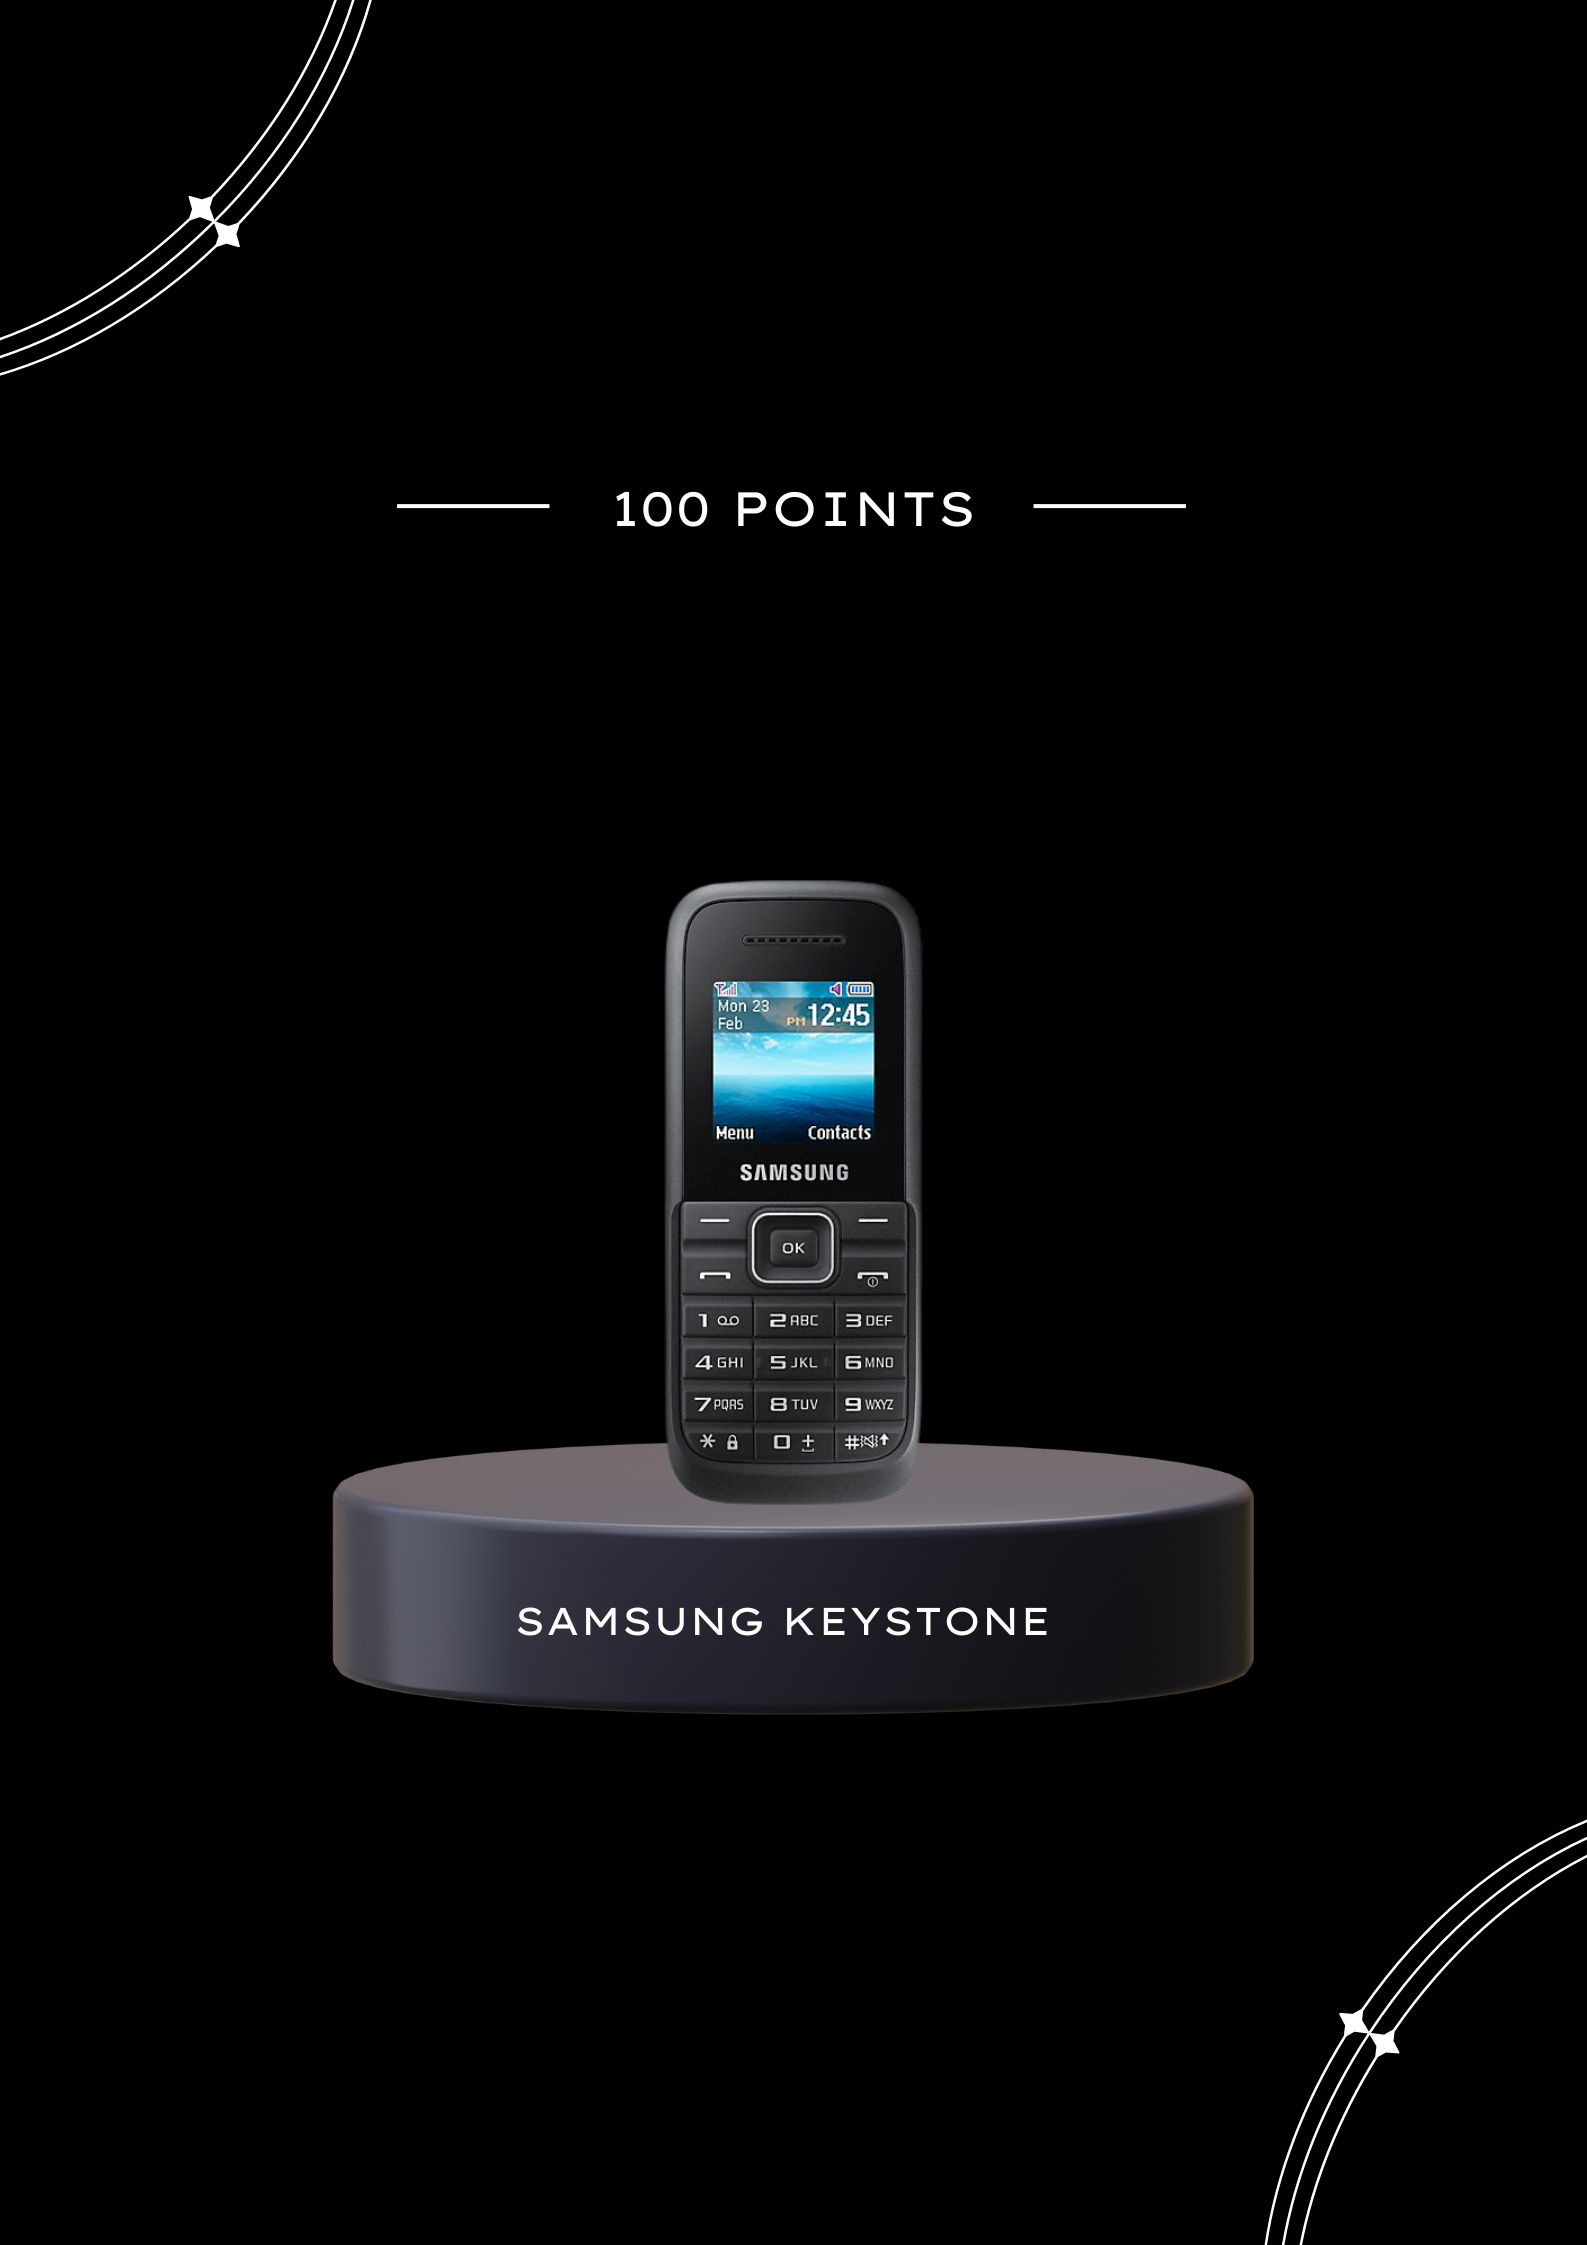
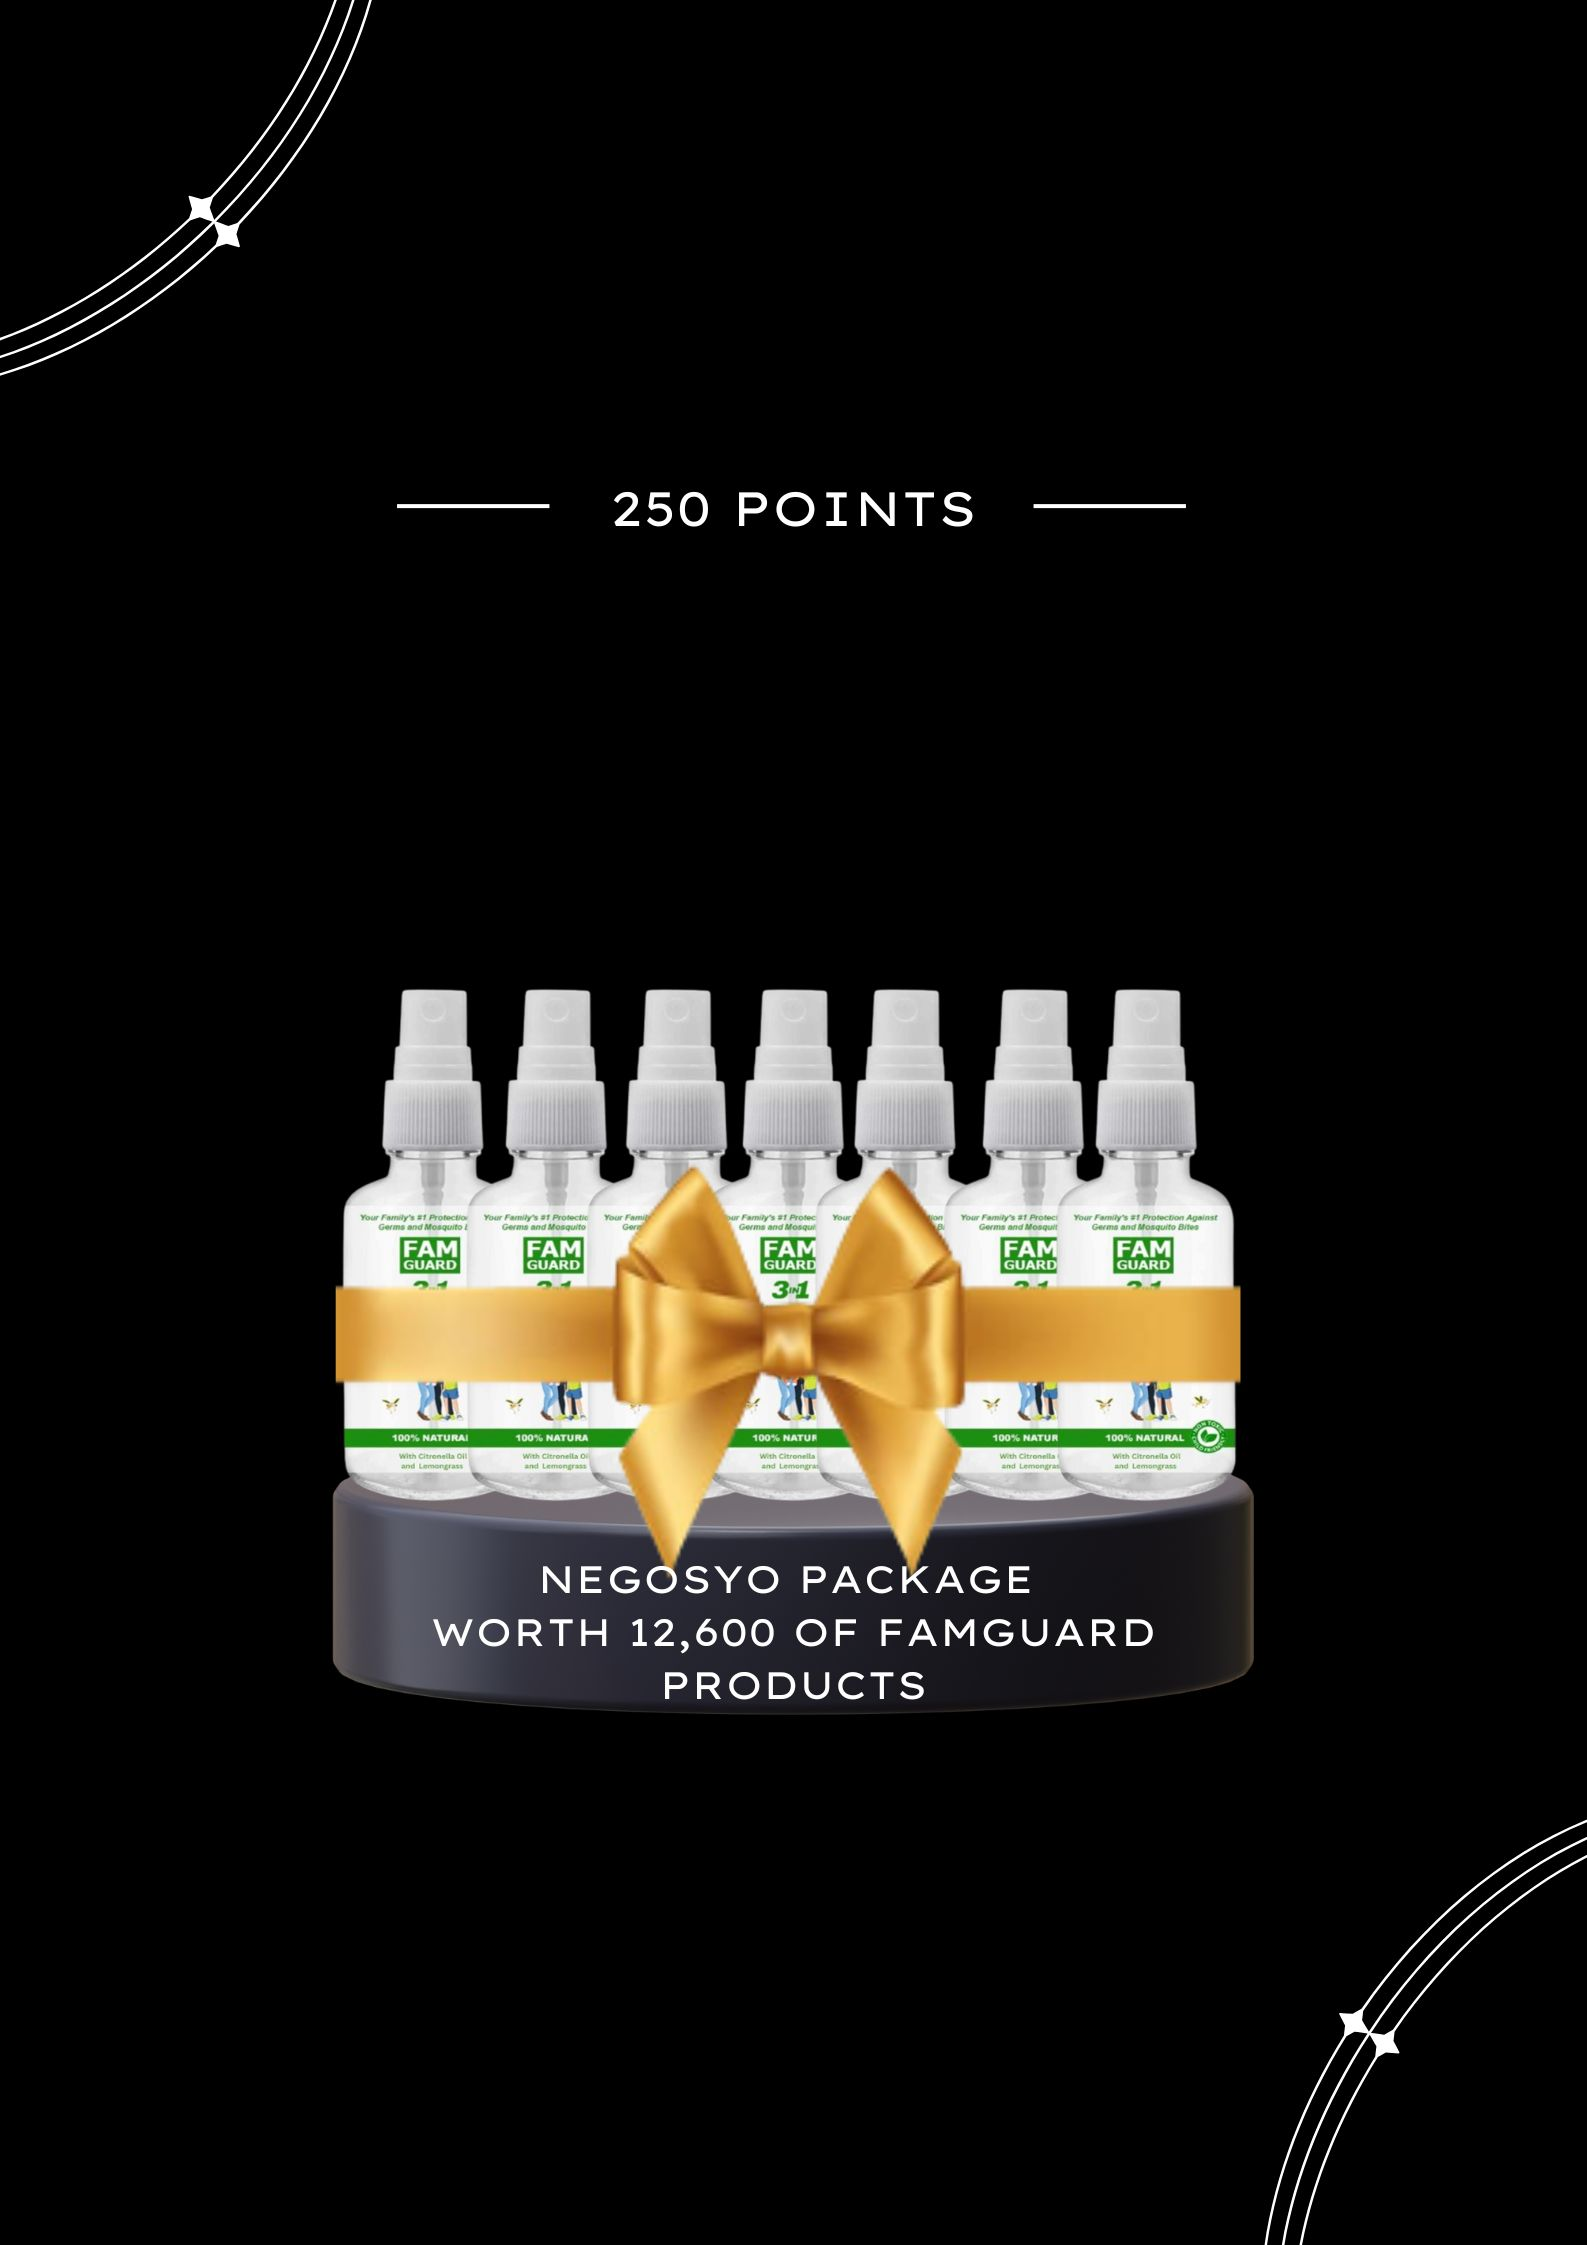
Added famguard items and products

Changed region(s): [[0.1853, 0.3742, 0.8028, 0.7795], [0.3705, 0.2183, 0.4323, 0.2494]]

diff --git a/database/seeders/ItemSeeder.php b/database/seeders/ItemSeeder.php
@@ -13,17 +13,8 @@ class ItemSeeder extends Seeder
     public function run(): void
     {
         Item::create([
-            'name' => 'B.O.S.S Product',
-            'image' => 'items/1.jpg',
-            'description' => '1 B.O.S.S Product of your own choice',
-            'points' => 10,
-            'quantity' => 9999,
-            'status' => 'active'
-        ]);
-
-        Item::create([
             'name' => '5 Kilos Ganador Rice',
-            'image' => 'items/2.jpg',
+            'image' => 'items/1.jpg',
             'description' => '5 Kilos Ganador Rice',
             'points' => 30,
             'quantity' => 9999,
@@ -31,82 +22,64 @@ class ItemSeeder extends Seeder
         ]);
 
         Item::create([
-            'name' => '1k Pesos Cash',
+            'name' => '1k Sodexo Gift Certificate',
+            'image' => 'items/2.jpg',
+            'description' => '1k Sodexo Gift Certificate',
+            'points' => 60,
+            'quantity' => 9999,
+            'status' => 'active'
+        ]);
+
+        Item::create([
+            'name' => '25 Kls Ganador Rice',
             'image' => 'items/3.jpg',
-            'description' => '1k Pesos Cash',
-            'points' => 70,
+            'description' => '25 Kls Ganador Rice',
+            'points' => 90,
             'quantity' => 9999,
             'status' => 'active'
         ]);
 
         Item::create([
-            'name' => 'Brandnew Samsung Keystone',
+            'name' => 'Negosyo Package',
             'image' => 'items/4.jpg',
-            'description' => 'Brandnew Samsung Keystone',
-            'points' => 100,
+            'description' => 'Negosyo Package worth of 12,600',
+            'points' => 250,
             'quantity' => 9999,
             'status' => 'active'
         ]);
 
         Item::create([
-            'name' => 'Shopping Spree!',
+            'name' => 'Brand New Samsung A12',
             'image' => 'items/5.jpg',
-            'description' => 'Shopping Spree! 4k worth of SM Gift Certificate',
-            'points' => 300,
+            'description' => 'Brand New Samsung A12',
+            'points' => 400,
             'quantity' => 9999,
             'status' => 'active'
         ]);
 
         Item::create([
-            'name' => 'Samsung Galaxy A50s Smartphone',
+            'name' => 'Family Appliance Showcase',
             'image' => 'items/6.jpg',
-            'description' => 'Samsung Galaxy A50s Smartphone',
-            'points' => 500,
-            'quantity' => 9999,
-            'status' => 'active'
-        ]);
-
-        Item::create([
-            'name' => 'Huawei Matepad with Keyboard',
-            'image' => 'items/7.jpg',
-            'description' => 'Huawei Matepad with Keyboard',
-            'points' => 1000,
-            'quantity' => 9999,
-            'status' => 'active'
-        ]);
-
-        Item::create([
-            'name' => 'TCL 50" Smart TV',
-            'image' => 'items/8.jpg',
-            'description' => 'TCL 50" Smart TV',
-            'points' => 2000,
-            'quantity' => 9999,
-            'status' => 'active'
-        ]);
-
-        Item::create([
-            'name' => 'Hongkong Disneyland Trip',
-            'image' => 'items/9.jpg',
-            'description' => 'All Expense Paid Trip to Hongkong Good For 1',
-            'points' => 3000,
+            'description' => '30k worth of SM Appliances',
+            'points' => 1250,
             'quantity' => 9999,
             'status' => 'active'
         ]);
 
         Item::create([
             'name' => 'Brandnew Mio Soul 125i',
-            'image' => 'items/10.jpg',
+            'image' => 'items/7.jpg',
             'description' => 'Brandnew Mio Soul 125i',
-            'points' => 5000,
+            'points' => 3000,
             'quantity' => 9999,
             'status' => 'active'
         ]);
 
         Item::create([
-            'name' => '120k Pesos Cash',
-            'image' => 'items/11.jpg',
-            'description' => '120k Pesos Cash',
-            'points' => 8000,
+            'name' => '150K Pesos Cash',
+            'image' => 'items/8.jpg',
+            'description' => '150K Pesos Cash',
+            'points' => 5000,
             'quantity' => 9999,
             'status' => 'active'
         ]);

diff --git a/database/seeders/ProductSeeder.php b/database/seeders/ProductSeeder.php
@@ -14,45 +14,12 @@ class ProductSeeder extends Seeder
     public function run(): void
     {
         Product::create([
-            'name' => 'Magnesium Therapy Oil',
-            'image' => 'products/1.jpg',
-            'bio' => 'Magnesium is an essential element required as a cofactor for over 300 enzymatic reactions and is necessary for our body to function properly',
-            'description' => 'Magnesium is an essential element required as a cofactor for over 300 enzymatic reactions and is necessary for our body to function properly',
-            'price' => 300,
-            'dprice' => 210,
-            'quantity' => 9999,
-            'status' => 'active'
-        ]);
-
-        Product::create([
-            'name' => '24k Gold Anti-radiation Path',
-            'image' => 'products/2.jpg',
-            'bio' => 'Approximately 90% of the world’s population owns a smart phone or a mobile phone. We use this device in multiple ways such as browsing the internet, watching movies and videos, playing games and many more. On average a person spends 8-10 hours per day using a smart phone with ages 9 to 18 years old spending longer hours. Some studies shows that prolong usage of gadgets especially the smart phone can cause brain tumor as this emits radiation that can potentially harm our health and worst cause brain tumor.',
-            'description' => 'Approximately 90% of the world’s population owns a smart phone or a mobile phone. We use this device in multiple ways such as browsing the internet, watching movies and videos, playing games and many more. On average a person spends 8-10 hours per day using a smart phone with ages 9 to 18 years old spending longer hours. Some studies shows that prolong usage of gadgets especially the smart phone can cause brain tumor as this emits radiation that can potentially harm our health and worst cause brain tumor.',
-            'price' => 500,
-            'dprice' => 300,
-            'quantity' => 9999,
-            'status' => 'active'
-        ]);
-
-        Product::create([
-            'name' => 'Titan Oil',
-            'image' => 'products/3.jpg',
-            'bio' => 'Magnesium is an essential element required as a cofactor for over 300 enzymatic reactions and is necessary for our body to function properly',
-            'description' => 'Applying titan oil to a man’s sexual organ greatly reduces the risk of prostate problem in the future as this contains safe and effective plant base minerals.
-
-Epimedium Extract Mint- Promotes better blood flow
-
-Virgin Coconut oil-Anti fungal, anti bacterial and an effective moisturizer
-
-Peruvian Maca- Help boost prostate and sperm health while promoting healthy sexual life by increasing libido
-
-Grape seed extract- known for promoting good blood flow and circulation and repairs nerve damage.
-
-This product is highly recommended for men especially the married one’s. Applying titan oil on a regular basis not only reduces the risk of prostate problem in the future this can is also be  beneficial for both couples as this product promotes  healthier, better and more active sex life.
-',
-            'price' => 500,
-            'dprice' => 350,
+            'name' => 'FamGuard',
+            'image' => 'products/famguard.jpg',
+            'bio' => 'Your personal self protective measure to combat mosquito and the diseases it carry.',
+            'description' => 'Your personal self protective measure to combat mosquito and the diseases it carry.',
+            'price' => 150,
+            'dprice' => 150,
             'quantity' => 9999,
             'status' => 'active'
         ]);

diff --git a/resources/views/one-page.blade.php b/resources/views/one-page.blade.php
@@ -214,7 +214,7 @@
                     </h3>
                 </div>
 
-                {{-- @foreach ($products as $product)
+                @foreach ($products as $product)
                     <div class="col-lg-3 col-md-6 col-sm-6 wow fadeIn" data-wow-delay="300ms">
                         <div class="shopping-box top20">
                             <div class="image" data-sale="30">
@@ -226,7 +226,7 @@
                             </div>
                         </div>
                     </div>
-                @endforeach --}}
+                @endforeach
             </div>
         </div>
     </section>
@@ -240,7 +240,7 @@
                     </h3>
                 </div>
 
-                {{-- @foreach ($rewards as $reward)
+                @foreach ($rewards as $reward)
                     <div class="col-lg-3 col-md-6 col-sm-6 wow fadeIn" data-wow-delay="300ms">
                         <div class="shopping-box top20">
                             <div class="image">
@@ -251,7 +251,7 @@
                             </div>
                         </div>
                     </div>
-                @endforeach --}}
+                @endforeach
             </div>
         </div>
     </section>

diff --git a/database/seeders/CodeSeeder.php b/database/seeders/CodeSeeder.php
@@ -15,7 +15,7 @@ class CodeSeeder extends Seeder
     {
         Code::factory(250)->create();
         Code::factory(250)->create();
-        Code::factory(250)->create();
-        Code::factory(250)->create();
+        // Code::factory(250)->create();
+        // Code::factory(250)->create();
     }
 }
